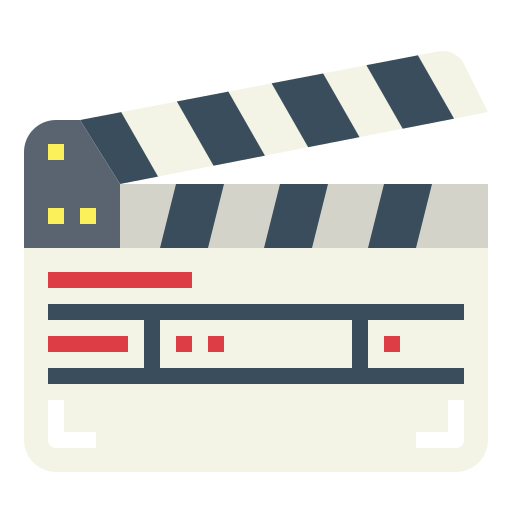
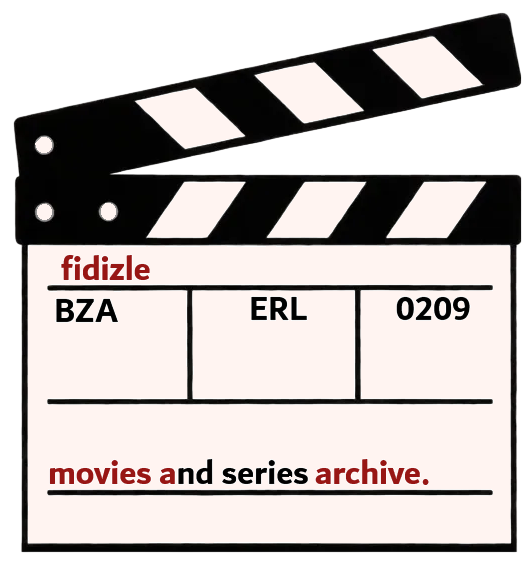
refactor: clean up code

diff --git a/src/app/components/Logo.tsx b/src/app/components/Logo.tsx
@@ -1,15 +1,21 @@
-import { Text, View, Image, StyleSheet } from 'react-native'
+import { View, Image, StyleSheet } from 'react-native'
 import { Link } from 'expo-router'
 import { colors } from '../styles/global'
 import useResponsive from '../hooks/useResponsive'
+import { useTheme } from '../context/ThemeContext'
 
-export default function Logo({ about = false }) {
+export default function Logo() {
   const isDesktop = useResponsive()
+  const { theme } = useTheme()
+
   return (
     <Link href="/">
       <View style={isDesktop ? styles.logoDesktop : styles.logo}>
-        <Image source={require('@/assets/clapboard.png')} style={isDesktop ? styles.logoIconDesktop : styles.logoIcon} />
-        <Text style={isDesktop ? styles.logoTitleDesktop : styles.logoTitle}>fidizle</Text>
+        <Image
+          source={require('@/assets/appLogo.png')}
+          // source={theme === 'dark' ? require('@/assets/logo2.png') : require('@/assets/logo1.png')}
+          style={isDesktop ? styles.logoIconDesktop : styles.logoIcon}
+        />
       </View>
     </Link>
   )
@@ -25,16 +31,16 @@ const styles = StyleSheet.create({
   },
 
   logoIcon: {
-    width: 20,
-    height: 20,
+    width: 82,
+    height: 82,
     resizeMode: 'contain',
   },
 
-  logoTitle: {
-    fontSize: 24,
-    fontWeight: '800',
-    color: colors.primary,
-  },
+  // logoTitle: {
+  //   fontSize: 24,
+  //   fontWeight: '800',
+  //   color: colors.primary,
+  // },
 
   logoDesktop: {
     flexDirection: 'row',
@@ -43,14 +49,14 @@ const styles = StyleSheet.create({
   },
 
   logoIconDesktop: {
-    width: 34,
-    height: 34,
-    resizeMode: 'contain',
+    width: 100,
+    height: 100,
+    resizeMode: 'cover',
   },
 
-  logoTitleDesktop: {
-    fontSize: 30,
-    fontWeight: '800',
-    color: colors.primary,
-  },
+  // logoTitleDesktop: {
+  //   fontSize: 30,
+  //   fontWeight: '800',
+  //   color: colors.primary,
+  // },
 })

diff --git a/src/app/components/Toast.tsx b/src/app/components/Toast.tsx
@@ -1,7 +1,8 @@
 import { useEffect, useRef } from 'react'
-import { Animated, Text, View, StyleSheet } from 'react-native'
+import { Animated, Text, View } from 'react-native'
 import Ionicons from '@expo/vector-icons/Ionicons'
-import { colors } from '../styles/global'
+import { useTheme } from '../context/ThemeContext'
+import { createStyles } from '../styles/global'
 
 type ToastType = 'success' | 'removed'
 
@@ -12,6 +13,9 @@ type ToastProps = {
 }
 
 export default function Toast({ visible, type = 'success', duration = 2200 }: ToastProps) {
+  const { colors } = useTheme()
+  const styles = createStyles(colors)
+
   const opacity = useRef(new Animated.Value(0)).current
   const translateY = useRef(new Animated.Value(20)).current
 
@@ -70,58 +74,3 @@ export default function Toast({ visible, type = 'success', duration = 2200 }: To
     </Animated.View>
   )
 }
-
-const styles = StyleSheet.create({
-  toast: {
-    position: 'absolute',
-    bottom: 24,
-    left: 20,
-    right: 20,
-    minHeight: 52,
-    flexDirection: 'row',
-    alignItems: 'center',
-    paddingHorizontal: 16,
-    paddingVertical: 12,
-    backgroundColor: colors.black100,
-    borderRadius: 100,
-    borderWidth: 1,
-    borderColor: colors.black900,
-
-    shadowColor: '#000',
-    shadowOffset: {
-      width: 0,
-      height: 10,
-    },
-    shadowOpacity: 0.4,
-    shadowRadius: 20,
-    elevation: 12,
-    zIndex: 9999,
-  },
-
-  toastIcon: {
-    width: 30,
-    height: 30,
-    borderRadius: 100,
-    backgroundColor: colors.lightRed,
-    alignItems: 'center',
-    justifyContent: 'center',
-    marginRight: 11,
-    borderWidth: 1,
-    borderColor: colors.redBorder,
-  },
-
-  toastIconText: {
-    color: colors.primary,
-    fontSize: 15,
-    fontWeight: '800',
-  },
-
-  toastText: {
-    flex: 1,
-
-    color: colors.text,
-    fontSize: 14,
-    fontWeight: '600',
-    letterSpacing: 0.1,
-  },
-})

diff --git a/src/app/styles/global.ts b/src/app/styles/global.ts
@@ -2,12 +2,12 @@ import { StyleSheet } from 'react-native'
 import { darkColors } from '../constants/colors'
 export const colors = {
   // Brand
-  primary: '#e50914',
+  primary: 'rgb(229, 9, 20)',
   primaryDark: '#7e0d13',
 
   // Text
   text: '#fff5f5',
-  textDark: '#A3A3A3',
+  textDark: 'rgb(163, 163, 163)',
   textMuted: '#737373',
 
   // Backgrounds
@@ -1397,6 +1397,59 @@ export function createStyles(colors: typeof darkColors) {
       color: colors.text,
       fontSize: 14,
       fontWeight: '700',
+    },
+    // Toast
+    toast: {
+      position: 'absolute',
+      bottom: 24,
+      left: 20,
+      right: 20,
+      minHeight: 52,
+      flexDirection: 'row',
+      alignItems: 'center',
+      paddingHorizontal: 16,
+      paddingVertical: 12,
+      backgroundColor: colors.black100,
+      borderRadius: 100,
+      borderWidth: 1,
+      borderColor: colors.black900,
+
+      shadowColor: '#000',
+      shadowOffset: {
+        width: 0,
+        height: 10,
+      },
+      shadowOpacity: 0.4,
+      shadowRadius: 20,
+      elevation: 12,
+      zIndex: 9999,
+    },
+
+    toastIcon: {
+      width: 30,
+      height: 30,
+      borderRadius: 100,
+      backgroundColor: colors.lightRed,
+      alignItems: 'center',
+      justifyContent: 'center',
+      marginRight: 11,
+      borderWidth: 1,
+      borderColor: colors.redBorder,
+    },
+
+    toastIconText: {
+      color: colors.primary,
+      fontSize: 15,
+      fontWeight: '800',
+    },
+
+    toastText: {
+      flex: 1,
+
+      color: colors.text,
+      fontSize: 14,
+      fontWeight: '600',
+      letterSpacing: 0.1,
     },
   })
 }

diff --git a/src/app/components/AboutPage.tsx b/src/app/components/AboutPage.tsx
@@ -1,8 +1,8 @@
-import { Linking, Pressable, Text, View } from 'react-native'
+import { Text, View } from 'react-native'
 import useResponsive from '../hooks/useResponsive'
 import { createStyles } from '../styles/global'
 import { useTheme } from '../context/ThemeContext'
-import { LINKS } from '../constants/links'
+
 import Logo from './Logo'
 export default function AboutPage() {
   const { colors } = useTheme()
@@ -38,14 +38,6 @@ export default function AboutPage() {
           <Text style={isDesktop ? styles.aboutInfoLabelDesktop : styles.aboutInfoLabel}>Copyright</Text>
 
           <Text style={isDesktop ? styles.aboutInfoValueDesktop : styles.aboutInfoValue}>© 2026 liascope</Text>
-        </View>
-
-        <View style={styles.aboutInfoRow}>
-          <Text style={isDesktop ? styles.aboutInfoLabelDesktop : styles.aboutInfoLabel}>Icon</Text>
-
-          <Pressable onPress={() => Linking.openURL(LINKS.iconCredit)}>
-            <Text style={isDesktop ? styles.aboutLinkDesktop : styles.aboutLink}>smalllikeart</Text>
-          </Pressable>
         </View>
       </View>
 

diff --git a/src/app/components/AppShell.tsx b/src/app/components/AppShell.tsx
@@ -7,7 +7,6 @@ import HomeHeader from './HomeHeader'
 import DesktopNavigation from './DesktopNavigation'
 import useResponsive from '../hooks/useResponsive'
 import Search from './Search'
-import MobileButtons from './UtilitisButtons'
 import { useTheme } from '../context/ThemeContext'
 import UtilitisButtons from './UtilitisButtons'
 

diff --git a/src/app/components/DesktopNavigation.tsx b/src/app/components/DesktopNavigation.tsx
@@ -1,4 +1,4 @@
-import { Text, View, StyleSheet } from 'react-native'
+import { Text, View } from 'react-native'
 import { Link, usePathname } from 'expo-router'
 import Ionicons from '@expo/vector-icons/Ionicons'
 

diff --git a/src/app/constants/links.ts b/src/app/constants/links.ts
@@ -1,4 +1,3 @@
 export const LINKS = {
-  iconCredit: 'https://www.flaticon.com/free-icons/clapperboard',
   ombd: 'https://www.omdbapi.com/?apikey=',
 }
